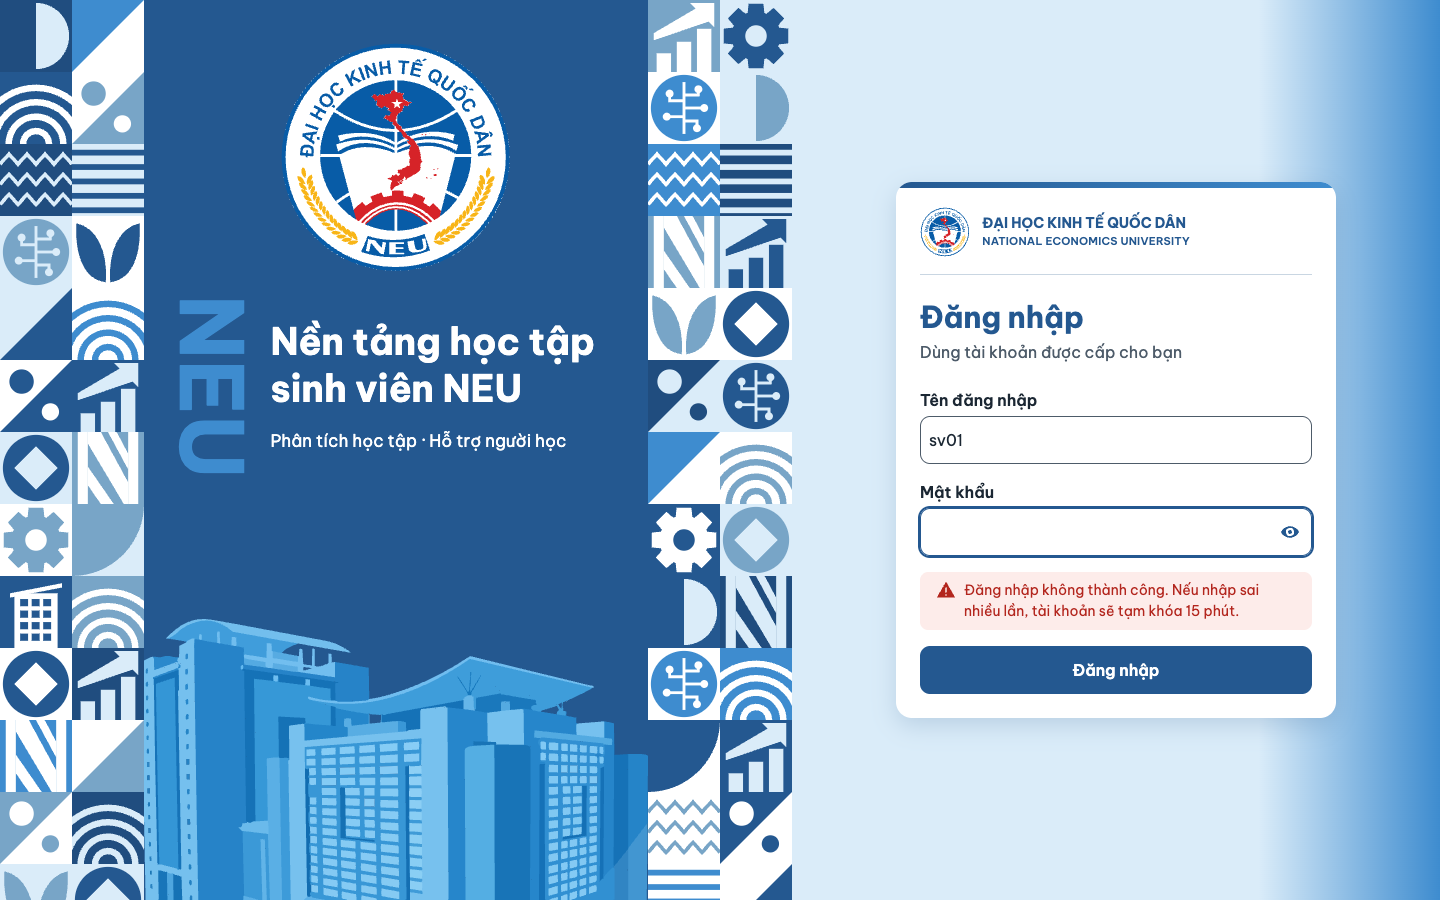
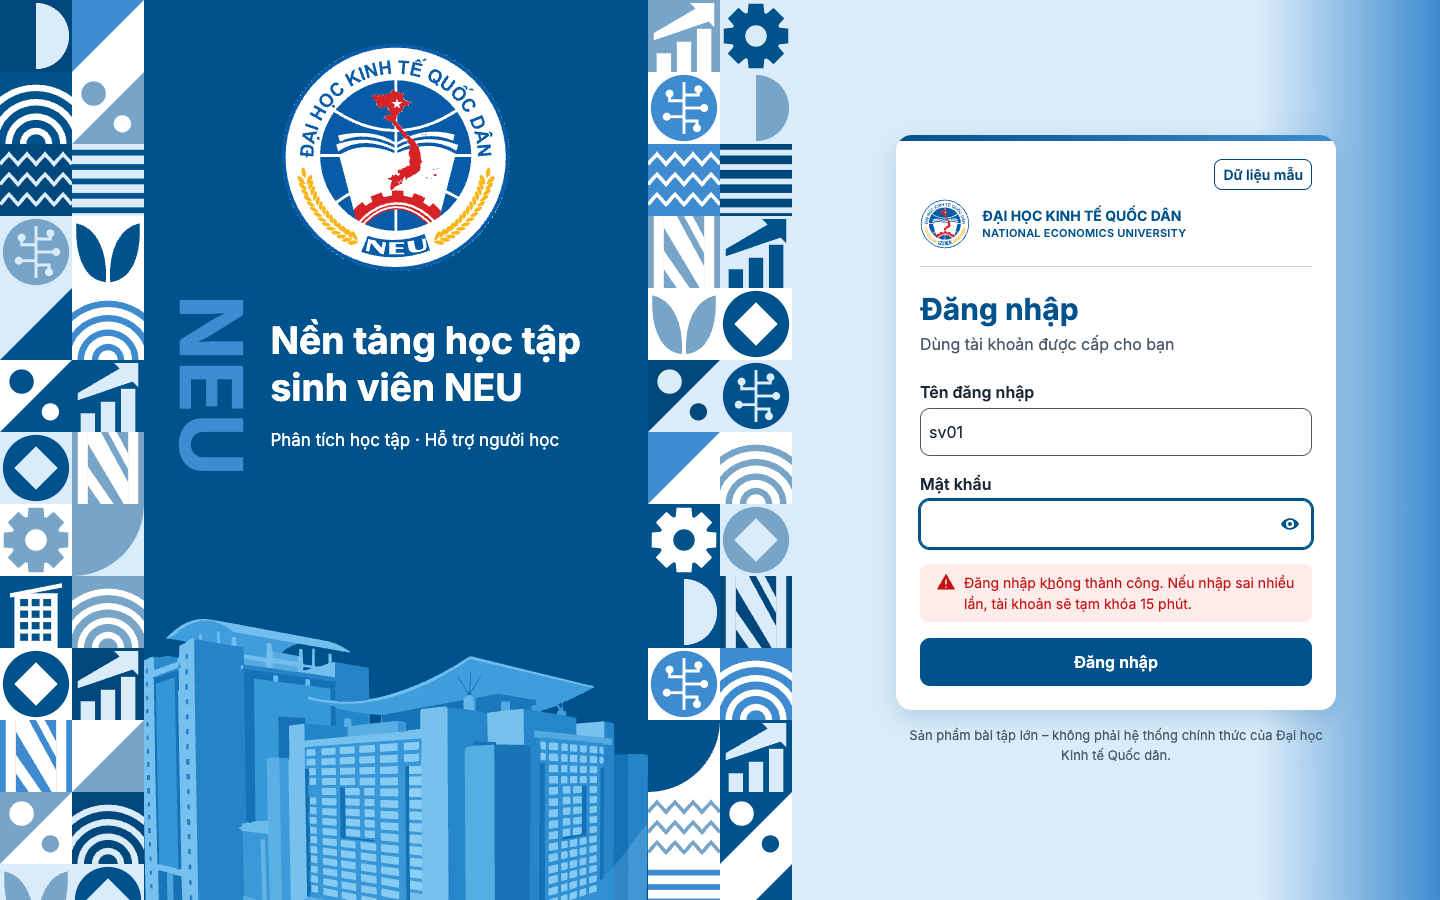
feat(frontend): doi mau va font theo trang mau chinh thuc, dua lai nhan du lieu mau

diff --git a/frontend/src/styles/tokens.test.js b/frontend/src/styles/tokens.test.js
@@ -38,11 +38,12 @@ function isChecked(path) {
 }
 
 function token(name) {
-  const match = tokensCss.match(new RegExp(`--${name}:\\s*(#[0-9a-f]{6})`, 'i'));
+  const match = tokensCss.match(new RegExp(`--${name}:\\s*(#[0-9a-f]{6}|var\\(--[\\w-]+\\))`, 'i'));
   if (!match) {
     throw new Error(`Không thấy token ${name}`);
   }
-  return match[1];
+  const alias = match[1].match(/^var\(--([\w-]+)\)$/);
+  return alias ? token(alias[1]) : match[1];
 }
 
 function luminance(hex) {
@@ -99,12 +100,29 @@ describe('mã màu', () => {
     expect(globalCss).not.toMatch(/(?:^|[\s;{])color:\s*var\(--neu-mid\)/);
   });
 
+  it('--neu-gray không được dùng cho chữ', () => {
+    expect(globalCss).not.toMatch(/(?:^|[\s;{])color:\s*var\(--neu-gray\)/);
+  });
+
+  it('dùng đúng màu trên trang màu chính thức', () => {
+    expect(token('neu-primary').toLowerCase()).toBe('#00528c');
+    expect(token('neu-red').toLowerCase()).toBe('#c41212');
+    expect(token('neu-gray').toLowerCase()).toBe('#828282');
+    expect(token('color-error').toLowerCase()).toBe('#c41212');
+  });
+
   it('primary-dark tối hơn primary khoảng 12%', () => {
     const primary = token('neu-primary');
     const dark = token('neu-primary-dark');
     for (const start of [1, 3, 5]) {
-      const ratio =
-        parseInt(dark.slice(start, start + 2), 16) / parseInt(primary.slice(start, start + 2), 16);
+      const base = parseInt(primary.slice(start, start + 2), 16);
+      const darker = parseInt(dark.slice(start, start + 2), 16);
+      if (base === 0) {
+        // Kênh 0 thì nhân bao nhiêu vẫn là 0, không tính được tỷ lệ.
+        expect(darker).toBe(0);
+        continue;
+      }
+      const ratio = darker / base;
       expect(ratio).toBeGreaterThan(0.86);
       expect(ratio).toBeLessThan(0.9);
     }
@@ -123,6 +141,7 @@ describe('tỷ lệ tương phản', () => {
     ['lỗi trên nền đỏ nhạt', 'color-error', 'color-error-bg'],
     ['lỗi trên thẻ form', 'color-error', 'neu-white'],
     ['thành công trên thẻ', 'color-success', 'color-surface'],
+    ['chú thích mẫu trên tint', 'color-text-muted', 'neu-tint'],
   ])('%s đạt từ 4,5:1', (_name, foreground, background) => {
     expect(contrast(token(foreground), token(background))).toBeGreaterThanOrEqual(4.5);
   });

diff --git a/frontend/src/styles/global.css b/frontend/src/styles/global.css
@@ -9,7 +9,7 @@ body {
   background: var(--neu-tint);
   color: var(--color-text);
   font-family:
-    'Be Vietnam Pro',
+    Inter,
     system-ui,
     -apple-system,
     'Segoe UI',
@@ -266,8 +266,10 @@ body {
 .login-panel {
   display: flex;
   flex: 1;
-  align-items: flex-start;
-  justify-content: center;
+  flex-direction: column;
+  gap: var(--space-3);
+  align-items: center;
+  justify-content: flex-start;
   padding: var(--space-3);
   background: var(--neu-tint);
 }
@@ -290,6 +292,12 @@ body {
   inset: 0 0 auto;
   height: 6px;
   background: linear-gradient(to right, var(--neu-primary), var(--neu-accent));
+}
+
+.login-card__badge {
+  display: flex;
+  justify-content: flex-end;
+  margin-bottom: var(--space-2);
 }
 
 .login-card h1 {
@@ -551,9 +559,24 @@ body {
   }
 
   .login-panel {
-    align-items: center;
+    justify-content: center;
     background: linear-gradient(to right, var(--neu-tint) 72%, var(--neu-accent) 100%);
   }
+}
+
+.mock-notice {
+  max-width: 440px;
+  margin: 0;
+  color: var(--color-text-muted);
+  font-size: 0.8125rem;
+  text-align: center;
+}
+
+.app-main__notice {
+  max-width: none;
+  margin-top: var(--space-4);
+  padding-top: var(--space-3);
+  border-top: 1px solid var(--color-border);
 }
 
 .field {
@@ -720,6 +743,6 @@ body {
 
 .button--ghost:disabled {
   background: var(--color-surface);
-  border-color: var(--color-border);
+  border-color: var(--neu-gray);
   color: var(--color-text-muted);
 }

diff --git a/frontend/src/styles/tokens.css b/frontend/src/styles/tokens.css
@@ -1,19 +1,24 @@
 :root {
-  /* Lấy mẫu từ keyvisual NEU 2026 (docs/brand/reference). Đối chiếu mã màu chính thức khi nhóm có file brand guideline. */
-  --neu-primary: #245890;
-  --neu-primary-dark: #204d7f; /* Tối hơn primary 12%, dùng cho hover và active. */
+  /* Theo trang "Màu sắc, kiểu chữ thương hiệu" (docs/brand/reference). */
+  --neu-primary: #00528c;
+  --neu-primary-dark: #00487b; /* Mỗi kênh của primary nhân 0,88, dùng cho hover và active. */
+  --neu-red: #c41212;
+  --neu-gray: #828282; /* Chỉ dùng cho viền và trạng thái vô hiệu, không dùng cho chữ. */
+
+  /* Lấy mẫu từ keyvisual NEU 2026, không phải mã màu trong trang màu chính thức. */
   --neu-tint: #daecf9;
   --neu-mid: #78a5c7; /* Chỉ dùng trang trí, không dùng cho chữ. */
   --neu-accent: #3e8ccf;
+
   --neu-white: #ffffff;
 
   --color-text: #1b2733;
   --color-text-muted: #4d5b69;
   --color-surface: #ffffff;
   --color-border: #c9d6e2;
-  --color-error: #b3261e;
+  --color-error: var(--neu-red);
   --color-error-bg: #fdecea;
-  --shadow-card: 0 8px 24px rgb(32 77 127 / 18%);
+  --shadow-card: 0 8px 24px rgb(0 72 123 / 18%);
   --color-success: #1b6e3c;
 
   --space-1: 4px;

diff --git a/frontend/src/features/auth/auth.test.jsx b/frontend/src/features/auth/auth.test.jsx
@@ -168,13 +168,18 @@ describe('đăng nhập', () => {
     expect(await screen.findByRole('heading', { name: 'Tổng quan' })).toBeInTheDocument();
   });
 
-  it('trang đăng nhập không còn badge "Dữ liệu mẫu" (quản lý dự án yêu cầu xóa)', async () => {
+  it('trang đăng nhập luôn có badge "Dữ liệu mẫu" và dòng không phải hệ thống chính thức', async () => {
     anonymousApi();
 
     renderApp('/login');
 
     await screen.findByLabelText('Mật khẩu');
-    expect(screen.queryByText('Dữ liệu mẫu')).not.toBeInTheDocument();
+    expect(screen.getByText('Dữ liệu mẫu')).toBeInTheDocument();
+    expect(
+      screen.getByText(
+        'Sản phẩm bài tập lớn – không phải hệ thống chính thức của Đại học Kinh tế Quốc dân.',
+      ),
+    ).toBeInTheDocument();
   });
 
   it('lỗi kết nối khi kiểm tra phiên thì hiện lỗi và thử lại được', async () => {

diff --git a/frontend/src/routes.test.jsx b/frontend/src/routes.test.jsx
@@ -19,6 +19,11 @@ describe('khung ứng dụng', () => {
     const banner = await screen.findByRole('banner');
     expect(within(banner).getByText('Dữ liệu mẫu')).toBeInTheDocument();
     expect(within(banner).getByRole('img')).toHaveAttribute('src', '/images/brand/logo_neu.svg');
+    expect(
+      screen.getByText(
+        'Sản phẩm bài tập lớn – không phải hệ thống chính thức của Đại học Kinh tế Quốc dân.',
+      ),
+    ).toBeInTheDocument();
     await screen.findByText('Backend đang hoạt động.');
   });
 

diff --git a/frontend/src/main.jsx b/frontend/src/main.jsx
@@ -2,9 +2,9 @@ import { StrictMode } from 'react';
 import { createRoot } from 'react-dom/client';
 import { BrowserRouter } from 'react-router';
 import AppRoutes from './routes';
-import '@fontsource/be-vietnam-pro/400.css';
-import '@fontsource/be-vietnam-pro/600.css';
-import '@fontsource/be-vietnam-pro/700.css';
+import '@fontsource/inter/400.css';
+import '@fontsource/inter/600.css';
+import '@fontsource/inter/700.css';
 import './styles/tokens.css';
 import './styles/global.css';
 

diff --git a/frontend/src/components/AppLayout.jsx b/frontend/src/components/AppLayout.jsx
@@ -1,5 +1,6 @@
 import { useState } from 'react';
 import { Outlet } from 'react-router';
+import MockNotice from './MockNotice';
 import Navbar from './Navbar';
 import Sidebar from './Sidebar';
 
@@ -16,6 +17,7 @@ export default function AppLayout() {
         <Sidebar open={menuOpen} onNavigate={() => setMenuOpen(false)} />
         <main id="main" className="app-main">
           <Outlet />
+          <MockNotice className="app-main__notice" />
         </main>
       </div>
     </>

diff --git a/frontend/src/features/auth/LoginPage.jsx b/frontend/src/features/auth/LoginPage.jsx
@@ -1,5 +1,6 @@
 import { Navigate, useLocation } from 'react-router';
 import BrandLogo from '../../components/BrandLogo';
+import MockNotice from '../../components/MockNotice';
 import MotifMosaic from '../../components/brand/MotifMosaic';
 import {
   LEFT_STRIP,
@@ -43,6 +44,7 @@ export default function LoginPage() {
       </div>
       <div className="login-panel">
         <LoginForm />
+        <MockNotice />
       </div>
     </main>
   );

diff --git a/frontend/src/features/auth/LoginForm.jsx b/frontend/src/features/auth/LoginForm.jsx
@@ -35,6 +35,9 @@ export default function LoginForm() {
 
   return (
     <section className="login-card">
+      <div className="login-card__badge">
+        <span className="mock-badge">Dữ liệu mẫu</span>
+      </div>
       <div className="login-card__brand">
         <BrandLogo />
         <p className="login-card__school">

diff --git a/frontend/src/components/MockNotice.jsx b/frontend/src/components/MockNotice.jsx
@@ -1,0 +1,6 @@
+export const MOCK_NOTICE =
+  'Sản phẩm bài tập lớn – không phải hệ thống chính thức của Đại học Kinh tế Quốc dân.';
+
+export default function MockNotice({ className = '' }) {
+  return <p className={`mock-notice ${className}`.trim()}>{MOCK_NOTICE}</p>;
+}

diff --git a/docs/brand/reference/README.md b/docs/brand/reference/README.md
@@ -1,0 +1,12 @@
+# Ảnh tham chiếu bộ nhận diện NEU 2026
+
+**Chỉ để tham chiếu.** Không nhúng, không cắt ghép các ảnh này vào giao diện.
+
+| File | Nội dung |
+|------|----------|
+| `neu-2026-keyvisual.png` | Trang "Họa tiết nhận diện" |
+| `neu-2026-mau-sac-kieu-chu.png` | Trang "Màu sắc, kiểu chữ thương hiệu" |
+
+Cả hai là ảnh chụp màn hình độ phân giải thấp từ tài liệu quản lý dự án gửi; trang màu sắc còn dính bộ đếm trang "5 – 6/14" của trình xem.
+
+Repo đang public nên `.gitignore` loại `docs/brand/reference/*.png`: hai file này chỉ có ở máy đã chép, không có khi clone repo. Không chép các trang có ảnh chân dung, không chép logo.
